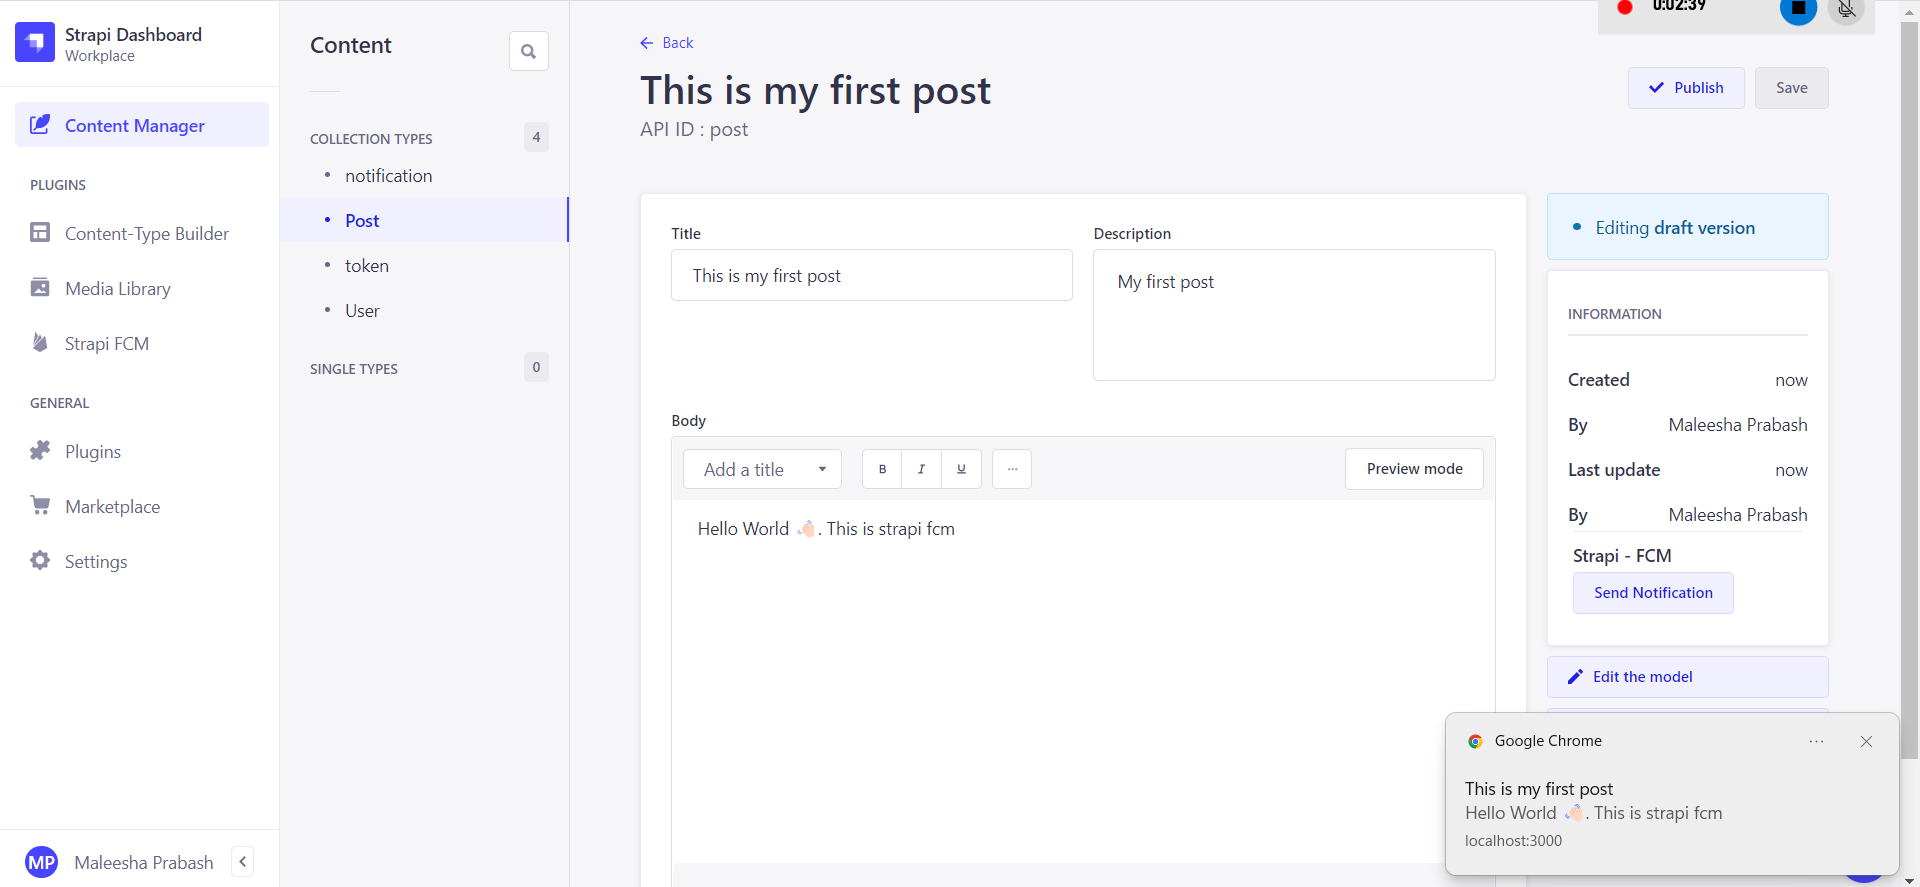
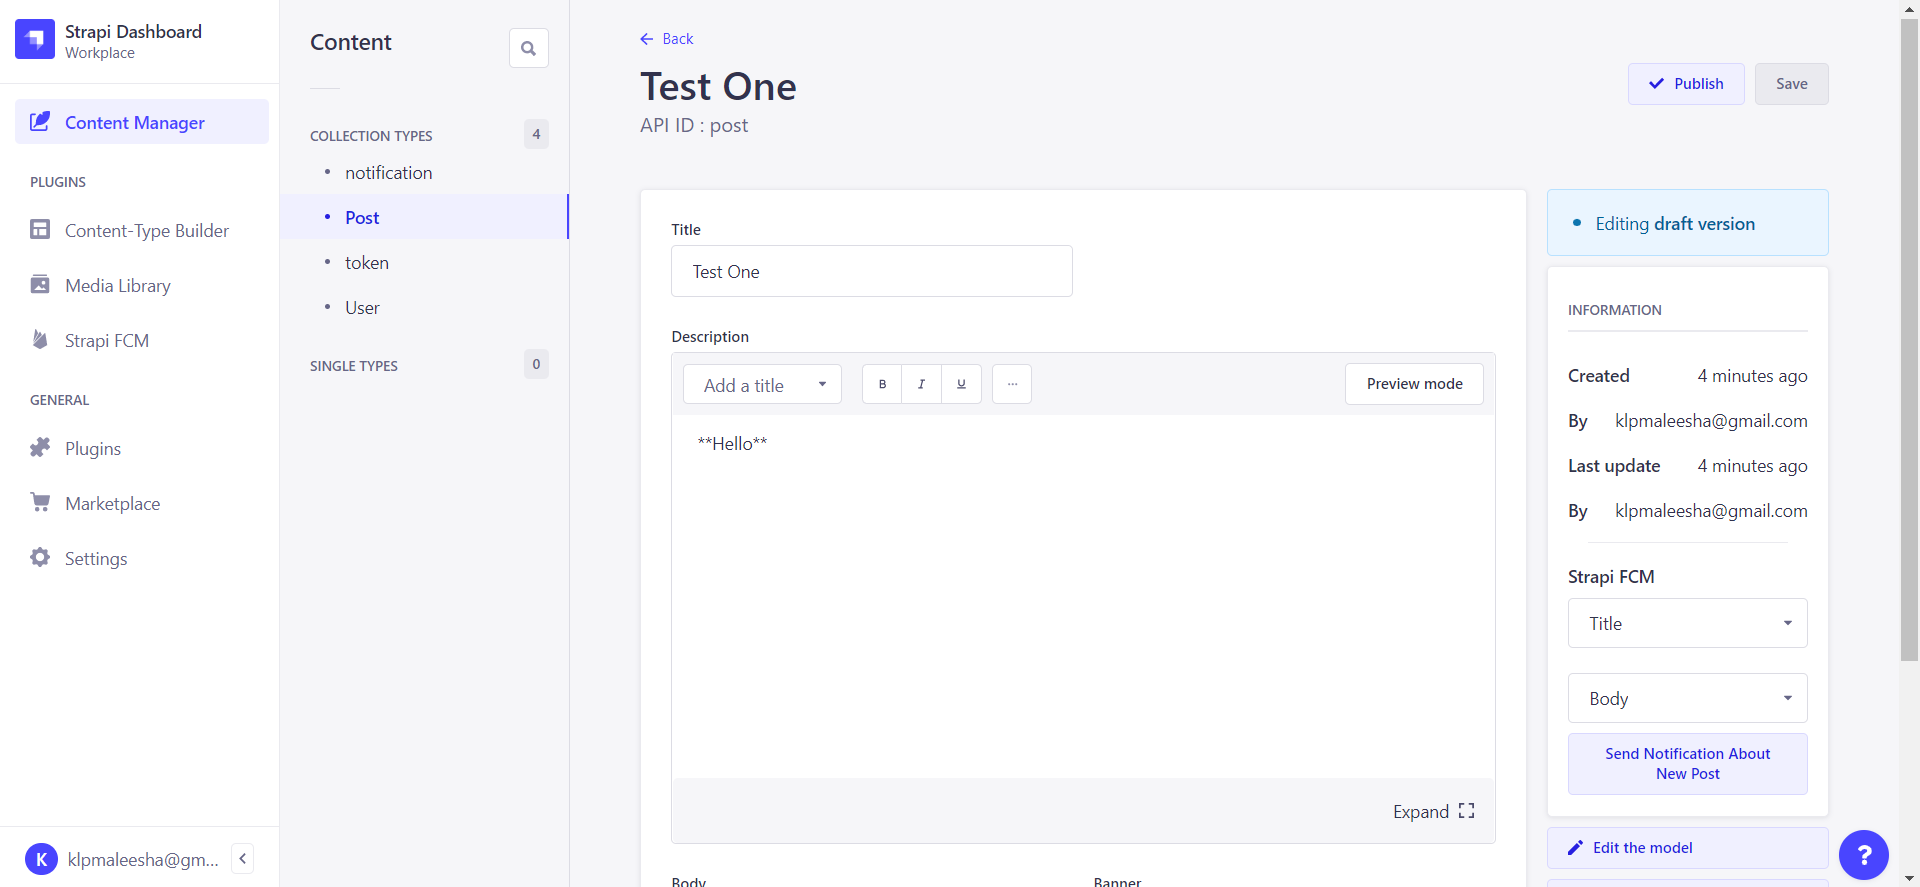
✨ Added Selectable Notification Body

diff --git a/admin/src/components/InputMedia/SendPost.js b/admin/src/components/InputMedia/SendPost.js
@@ -1,23 +1,32 @@
 import React, { memo, useState, useEffect } from "react";
-import { Box } from "@strapi/design-system/Box";
-import { Divider } from "@strapi/design-system/Divider";
-import { Typography } from "@strapi/design-system/Typography";
-import { Button } from "@strapi/design-system/Button";
+import {
+  Box,
+  Divider,
+  Button,
+  Select,
+  Option,
+  Typography,
+} from "@strapi/design-system";
 import { useCMEditViewDataManager } from "@strapi/helper-plugin";
 import { useNotification } from "@strapi/helper-plugin";
 import api from "../../api";
 
 const sendPost = () => {
-  const quary = useCMEditViewDataManager();
+  const [title, setTitle] = useState();
+  const [body, setBody] = useState();
+  const {
+    modifiedData,
+    layout: { attributes },
+  } = useCMEditViewDataManager();
   const toggleNotification = useNotification();
 
   const sendNotifications = () => {
     api
       .sendNotification({
-        title: quary.modifiedData.Title,
-        body: quary.modifiedData.Body,
+        title: modifiedData[title],
+        body: modifiedData[body],
       })
-      .then((res) => {
+      .then(() => {
         toggleNotification({
           type: "success",
           message: "Notification sent successfully",
@@ -26,20 +35,48 @@ const sendPost = () => {
   };
   return (
     <Box>
-      <Box padding={1}>
+      <Box padding={4}>
         <Divider />
-        <Box paddingBottom={1} paddingTop={2}>
-          <Box>
-            <Typography variant="omega" fontWeight="bold">
-              Strapi - FCM
-            </Typography>
-          </Box>
-          <Box paddingTop={1}>
-            <Button variant="secondary" onClick={sendNotifications}>
-              Send Notification
-            </Button>
-          </Box>
-        </Box>
+      </Box>
+      <Typography variant="omega" fontWeight="bold">
+        Strapi FCM
+      </Typography>
+      <Box paddingTop={2}>
+        <Select
+          placeholder="Field For Title"
+          value={title}
+          onChange={(e) => {
+            setTitle(e);
+          }}
+        >
+          {Object.keys(attributes).map((item, i) => (
+            <Option key={i} value={item}>
+              {item}
+            </Option>
+          ))}
+        </Select>
+      </Box>
+
+      <Box paddingTop={5}>
+        <Select
+          placeholder="Field For Body"
+          value={body}
+          onChange={(e) => {
+            setBody(e);
+          }}
+        >
+          {Object.keys(attributes).map((item, i) => (
+            <Option key={i} value={item}>
+              {item}
+            </Option>
+          ))}
+        </Select>
+      </Box>
+
+      <Box paddingTop={2}>
+        <Button variant="secondary" onClick={sendNotifications}>
+          Send Notification About New Post
+        </Button>
       </Box>
     </Box>
   );
